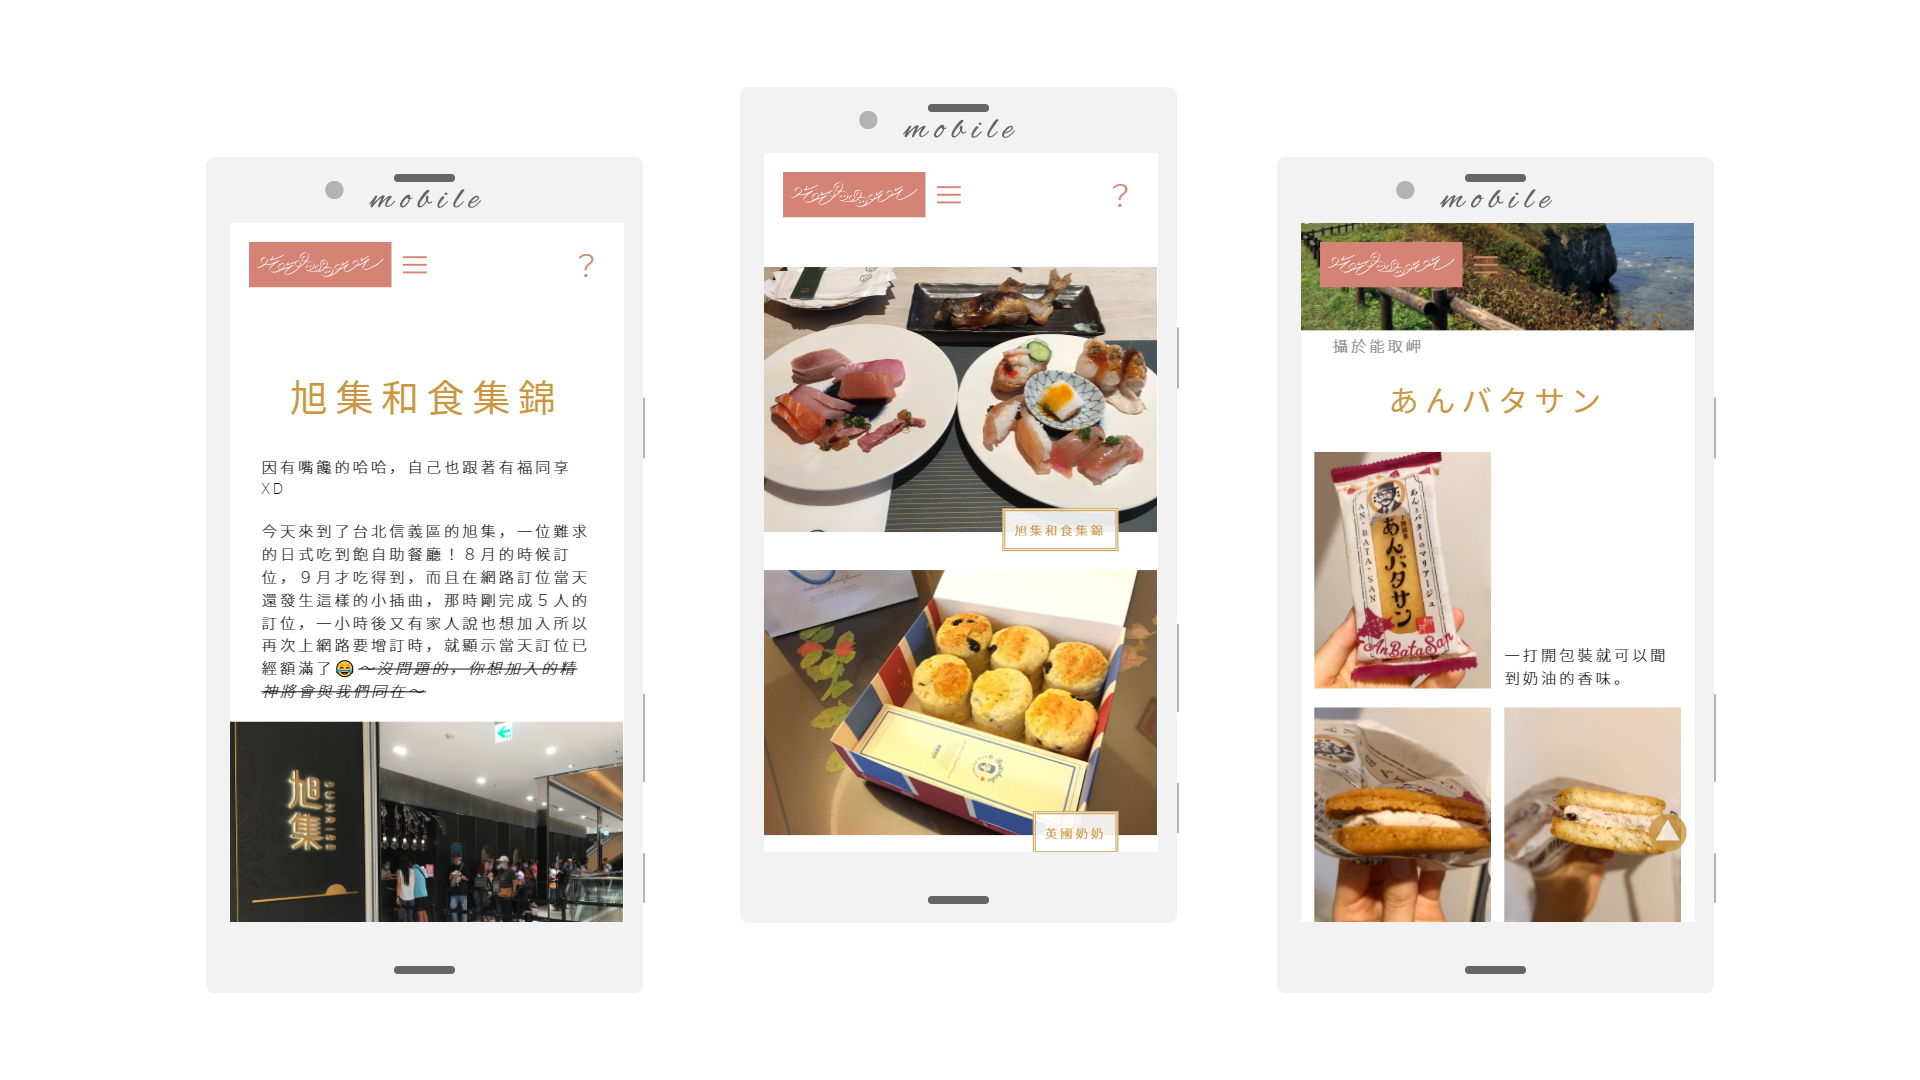
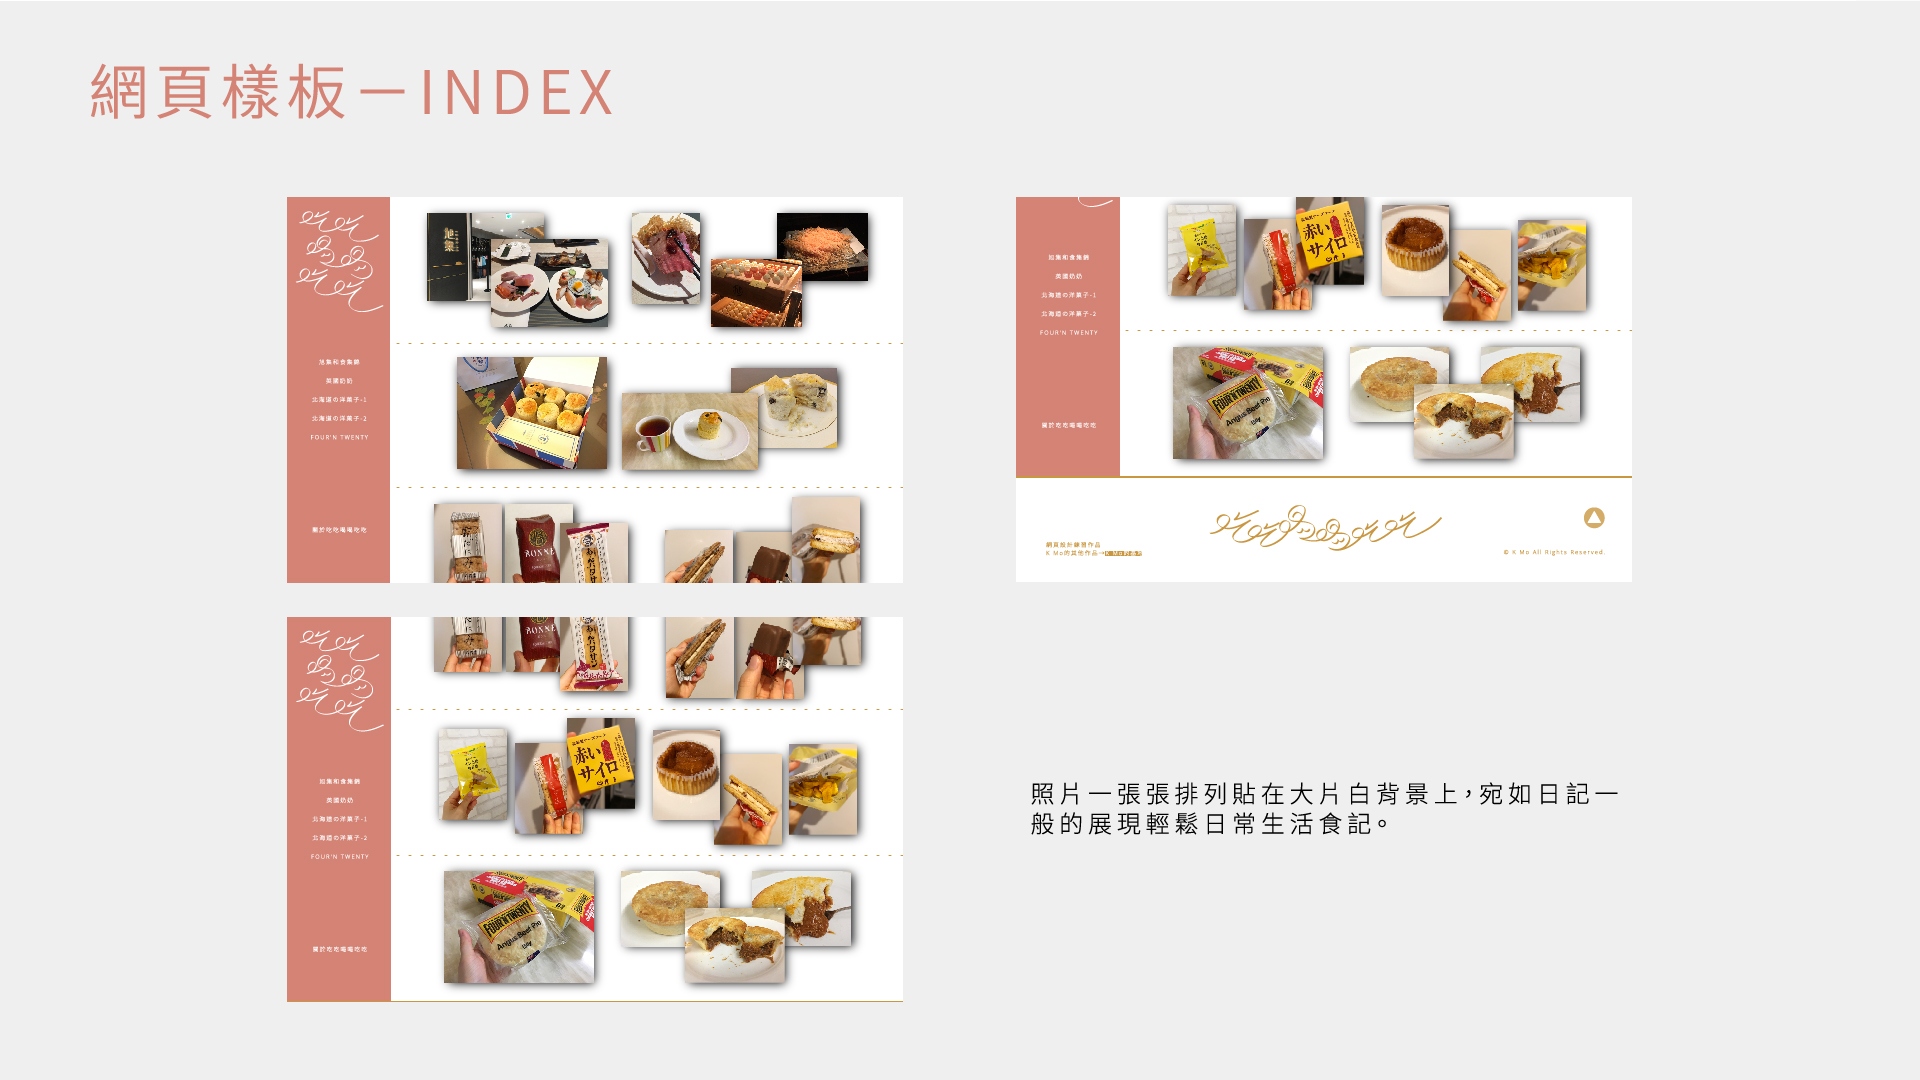
ChiheWeb202009內容調整
增加更多作品介紹說明

diff --git a/ChiheWeb202009.html b/ChiheWeb202009.html
@@ -80,11 +80,15 @@
                 <p data-aos="fade-down" data-aos-delay="600">繽紛色彩的吃喝玩樂，記錄著日常生活所吃所喝食記網站的網頁設計練習作品，希望你也會喜歡：）</p>
                 <div data-aos="fade-in" data-aos-delay="600">
                     <div><img src="images/05_ChiheWeb202009/ChiheWeb_2.png" alt="美食集合照"></div>
-                    <div><img src="images/05_ChiheWeb202009/ChiheWeb_3.jpg" alt="吃吃喝喝吃吃網頁色彩計畫"></div>
-                    <div class="CHgif"><img src="images/05_ChiheWeb202009/ChiheWeb_4.gif" alt=""></div>
-                    <p>for電腦版的繽紛色板視覺設計。</p>
-                    <div><img src="images/05_ChiheWeb202009/ChiheWeb_5.jpg" alt="吃吃喝喝吃吃網頁RWD設計"></div>
-                    <p>專屬手機的RWD介面設計。</p>
+                    <div><img src="images/05_ChiheWeb202009/ChiheWeb_3.jpg" alt="吃吃喝喝吃吃網頁架構圖"></div>
+                    <div><img src="images/05_ChiheWeb202009/ChiheWeb_4.jpg" alt="字體規範+主要色彩"></div>
+                    <div><img src="images/05_ChiheWeb202009/ChiheWeb_5.jpg" alt="網頁樣板"></div>
+                    <div><img src="images/05_ChiheWeb202009/ChiheWeb_6.jpg" alt="RWD"></div>
+                    <div><img src="images/05_ChiheWeb202009/ChiheWeb_7.jpg" alt="效果使用1"></div>
+                    <div><img src="images/05_ChiheWeb202009/ChiheWeb_8.jpg" alt="效果使用2"></div>
+                    <div><img src="images/05_ChiheWeb202009/ChiheWeb_9.jpg" alt="效果使用3"></div>
+                    <div><img src="images/05_ChiheWeb202009/ChiheWeb_10.jpg" alt="效果使用4"></div>
+                    <div><img src="images/05_ChiheWeb202009/ChiheWeb_11.jpg" alt="效果使用5"></div>
                     <div>
                         <div class="CHenter">
                             <div class="mask">

diff --git a/work_css/ChiheWeb202009.css b/work_css/ChiheWeb202009.css
@@ -35,9 +35,6 @@
 .CHcontent div{
     margin: 0 auto 3%;
 }
-.CHgif{
-    width: 80%;
-}
 .CHenter{
     position: relative;
     width: 80%;
